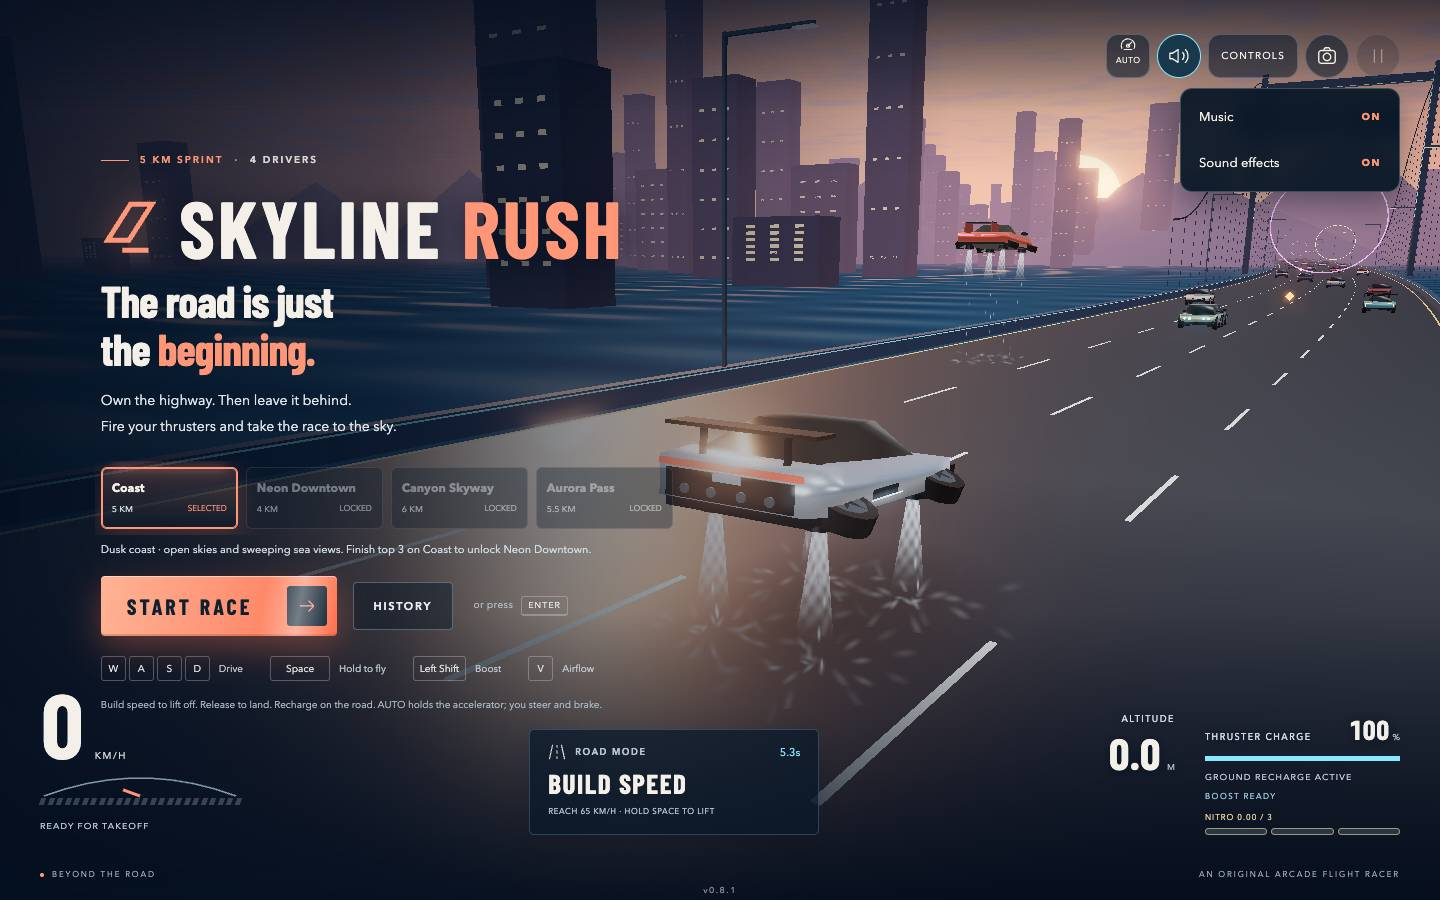
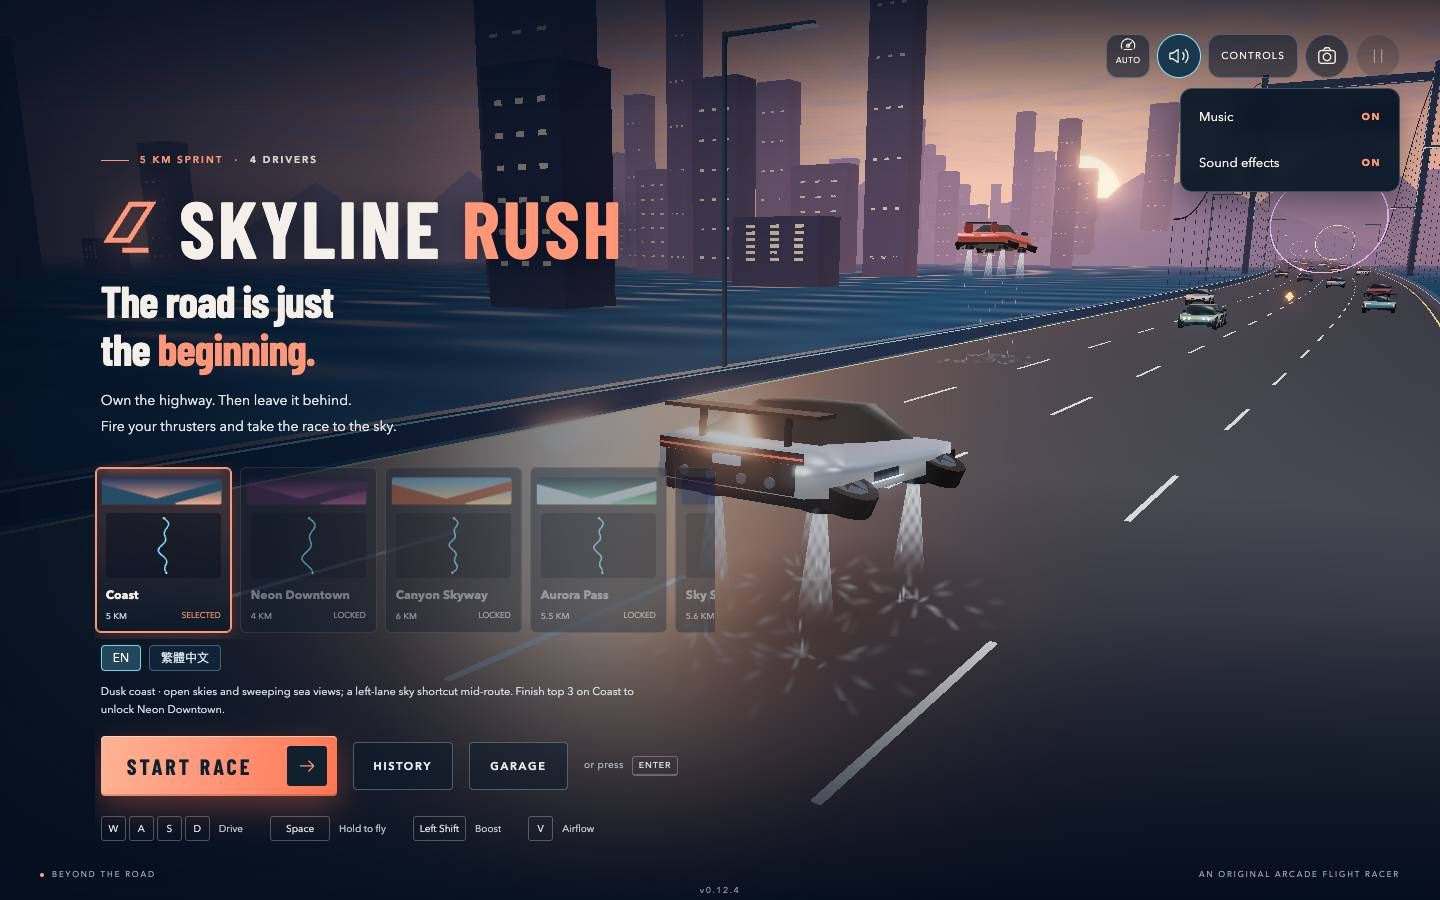
feat(i18n): add bilingual og and README screenshots
Produce en and zh-TW og images and zh-TW README screenshots with
scripts/capture-og-images.mjs. index.html keeps one English og:image
(crawlers cannot switch) and declares zh_TW as an alternate locale.
readme-zh.mjs points the zh-TW README at the translated screenshots.

diff --git a/index.html b/index.html
@@ -15,11 +15,13 @@
     <meta name="description" content="A 3D coastal highway racer. Drive fast, fire your thrusters and take the race into the sky." />
     <title>Skyline Rush — Beyond the road</title>
     <meta property="og:type" content="website" />
+    <meta property="og:locale" content="en_US" />
+    <meta property="og:locale:alternate" content="zh_TW" />
     <meta property="og:url" content="https://weskao.github.io/skyline-rush/" />
     <meta property="og:title" content="Skyline Rush — Beyond the road" />
     <meta property="og:description" content="A 3D coastal highway racer. Drive fast, fire your thrusters and take the race into the sky." />
-    <!-- copy of artifacts/readme-hero.jpeg; ?v= busts social-card caches when the cover changes -->
-    <meta property="og:image" content="https://weskao.github.io/skyline-rush/og-image.jpeg?v=20261020b" />
+    <!-- One static English cover (crawlers cannot switch language): a copy of public/og-image.en.jpeg from scripts/capture-og-images.mjs; ?v= busts social-card caches when it changes -->
+    <meta property="og:image" content="https://weskao.github.io/skyline-rush/og-image.jpeg?v=20261021a" />
     <meta property="og:image:width" content="1440" />
     <meta property="og:image:height" content="900" />
     <meta property="og:image:alt" content="Skyline Rush start screen" />
